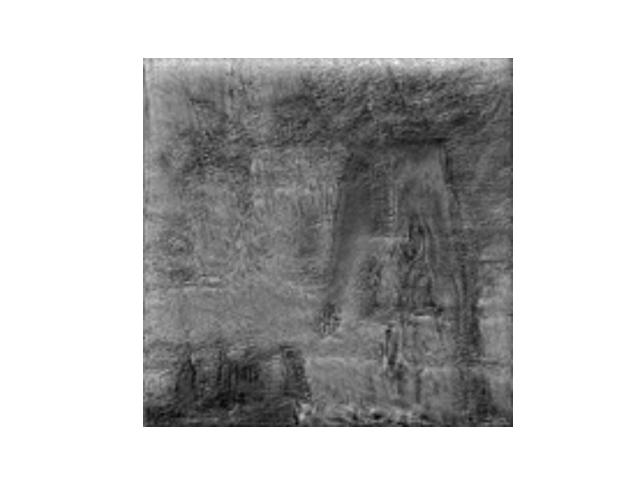
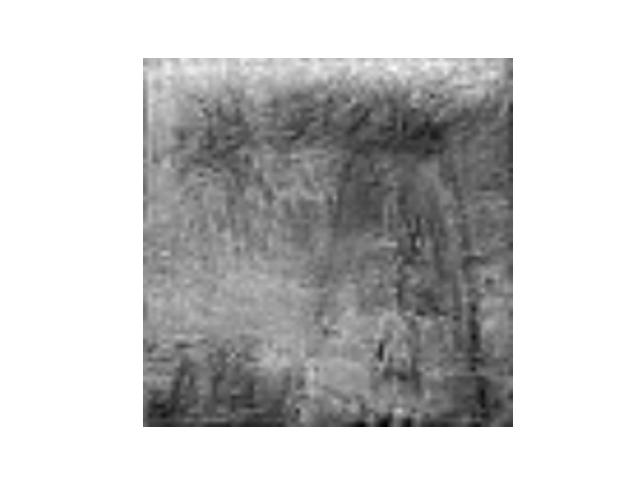
Added inference pipeline and results

Changed region(s): [[0.2188, 0.125, 0.8125, 0.9062]]

diff --git a/inference.py b/inference.py
@@ -15,7 +15,7 @@ def main():
    checkpoint = torch.load('checkpoints/best_model.pth')
    model.load_state_dict(checkpoint['model_state_dict'])
    data = BlendedMVS(
-      'data/dataset_low_res', height=640, width=640, subset=0.2, partition='test',
+      'data/dataset_low_res', height=320, width=320, subset=0.4, partition='test',
       context_size=4
    )
    dataloader = DataLoader(data, 6, shuffle=False, collate_fn=data.collate_fn)
